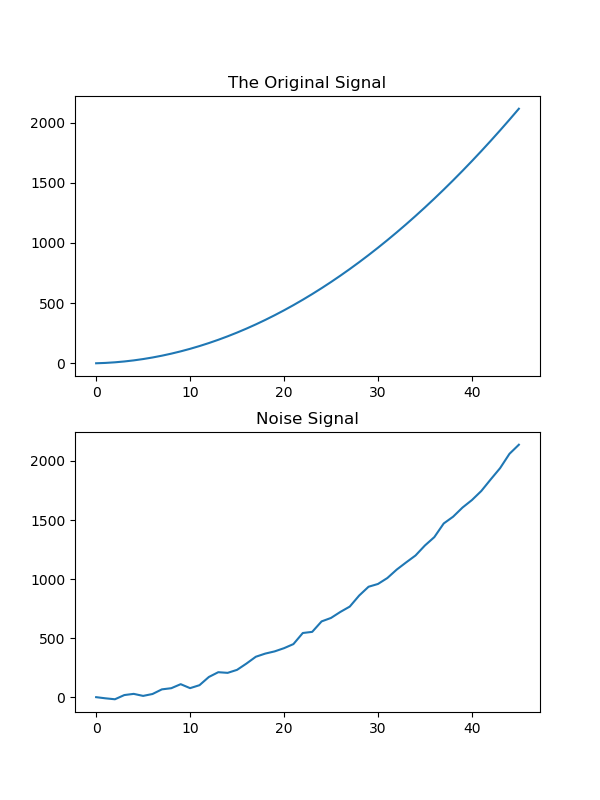
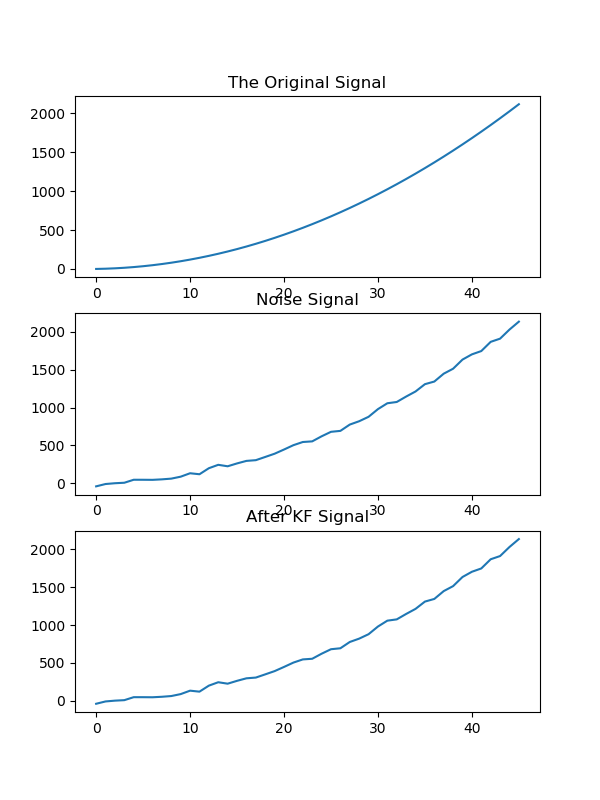
Debugged

diff --git a/hw11/src/produce_data1.py b/hw11/src/produce_data1.py
@@ -6,33 +6,41 @@ import csv
 
 time_stamp = []
 num_list = []
-receve_list= []
+receve_list= [-41.3476,-10.56936,-0.09996,6.33969,45.89824,45.62117,44.61856,51.14404,60.73781,86.47371,131.77911,118.70147,198.3733,243.21885,223.93135,261.76944,295.08487,304.72116,347.15858,390.1038,445.32955,502.8035,544.69698,553.10905,619.93109,679.36774,691.80668,775.08624,819.29884,877.79287,979.42744,1056.82776,1073.63762,1145.40761,1212.50599,1308.97609,1343.82864,1447.64044,1513.31818,1633.95831,1702.98397,1746.72186,1868.41031,1910.65399,2030.43845,2135.39993]
+kf_list = []
 
 for t in range(0,46,1):
     d = (2.0 * t) + ( t**2.0 )
     num_list.append(d)
-    receve_list.append(d)
     time_stamp.append(t)
 
-for i in range(0,46,1):
-    receve_list[i] = round(num_list[i] + np.random.normal(0, 20),5)
 print(num_list)
 print(receve_list)
 
-with open('/home/amnshaw/catkin_ws/src/Homework/hw11/output.csv', 'w') as csvfile:
+with open('/home/amnshaw/catkin_ws/src/Homework/hw11/src/output.csv', 'w') as csvfile:
   writer = csv.writer(csvfile)
   writer.writerow(num_list)
   writer.writerow(receve_list)
 
+with open('/home/amnshaw/catkin_ws/src/Homework/hw11/src/data.csv', 'r') as csvfile:
+  reader = csv.reader(csvfile, quoting=csv.QUOTE_NONNUMERIC)
+  for row in reader:
+    kf_list = row
+  kf_list = filter(None, kf_list)
+  print(kf_list)
 
 plt.figure(figsize=(6,8))
-plt.subplot(211)
+plt.subplot(311)
 plt.title('The Original Signal')
 plt.plot(time_stamp[0:46],num_list[0:46])
 
-plt.subplot(212)
+plt.subplot(312)
 plt.title('Noise Signal')
 plt.plot(time_stamp[0:46],receve_list[0:46])
+
+plt.subplot(313)
+plt.title('After KF Signal')
+plt.plot(time_stamp[0:46],kf_list[0:46])
 
 plt.show()
 plt.tight_layout()

diff --git a/hw11/src/kf_test.cpp b/hw11/src/kf_test.cpp
@@ -5,6 +5,13 @@
 #include <Eigen/Dense>
 #include "hw11/kalman.h"
 
+#include <ros/ros.h>
+#include <iostream>
+#include <fstream>
+#include <vector>
+#include <Eigen/Dense>
+#include "hw11/kalman.h"
+
 #include <queue>
 
 int main(int argc, char **argv)
@@ -32,6 +39,7 @@ int main(int argc, char **argv)
        0, 0, 1;
 
   B << 0, 0, 1;
+
   C << 1, 0, 0;
 
   Q << 400, 0.0, 0.0,
@@ -42,7 +50,6 @@ int main(int argc, char **argv)
   P << 1, 0, 0,
        0, 1, 0,
        0, 0, 1;
-
   //
 
   std::cout << "A: \n" << A << std::endl;
@@ -68,7 +75,7 @@ int main(int argc, char **argv)
   // Feed measurements into filter, output estimated states
   double t = 0;
   Eigen::VectorXd y(m);
-  std::cout << "t = " << t << ", " << "x_hat[0]: " << kf.state().transpose() << std::endl;
+  std::cout << "t = " << t << ", " << "x_hat[0]: " << std::endl <<kf.state().transpose() << std::endl;
   std::queue<double> answer;
   for (int i = 0; i < measurements.size(); i++) {
     t += dt;
@@ -83,7 +90,7 @@ int main(int argc, char **argv)
 
   std::ofstream in;
   //chage your path "home/ee405423/Desktop"
-  in.open("/home/ee405423/Desktop/data.csv",std::ios::out | std::ios::app);
+  in.open("/home/amnshaw/catkin_ws/src/Homework/hw11/src/data.csv",std::ios::out | std::ios::app);
   int len = answer.size();
   for(int i =0; i<len;i++)
   {

diff --git a/hw11/src/kalman.cpp b/hw11/src/kalman.cpp
@@ -49,16 +49,27 @@ void KalmanFilter::update(const Eigen::VectorXd& y) {
 //Prediction
   x_hat_new = A*x_hat + B*2;
   P = A*P*A.transpose() + Q;
-
+  std::cout << "x_hat pre " << std::endl << x_hat << std::endl;
+  std::cout << "P pre " << std::endl << P << std::endl;
 //Correction
-  Eigen::VectorXd K_k = (P*C.transpose()).array() / (C*P*C.transpose() + R).array(); 
+  Eigen::VectorXd K_k_1 = P*C.transpose();
+  Eigen::VectorXd K_k_2 = C*P*C.transpose() + R;
+  std::cout << "K_k_1" << std::endl << K_k_1 << std::endl;
+  std::cout << "K_k_2" << std::endl << K_k_2 << std::endl;
+  double K_k_c = K_k_2(0);
+  Eigen::VectorXd K_k = K_k_1/K_k_c;
+  //
+  std::cout << "K_k" << std::endl << K_k << std::endl;
+  //
   Eigen::VectorXd temp = (y-C*x_hat_new);
-  double j = temp(1);
+  double j = temp(0);
   x_hat_new = x_hat_new + K_k * j;
   P = (I - K_k*C) * P;  
-
-
-//
+  //
+  std::cout << "x_hat cor " << x_hat_new << std::endl;
+  std::cout << "P cor " << P << std::endl;
+  //
+  x_hat = x_hat_new;
   t += dt;
 }
 
